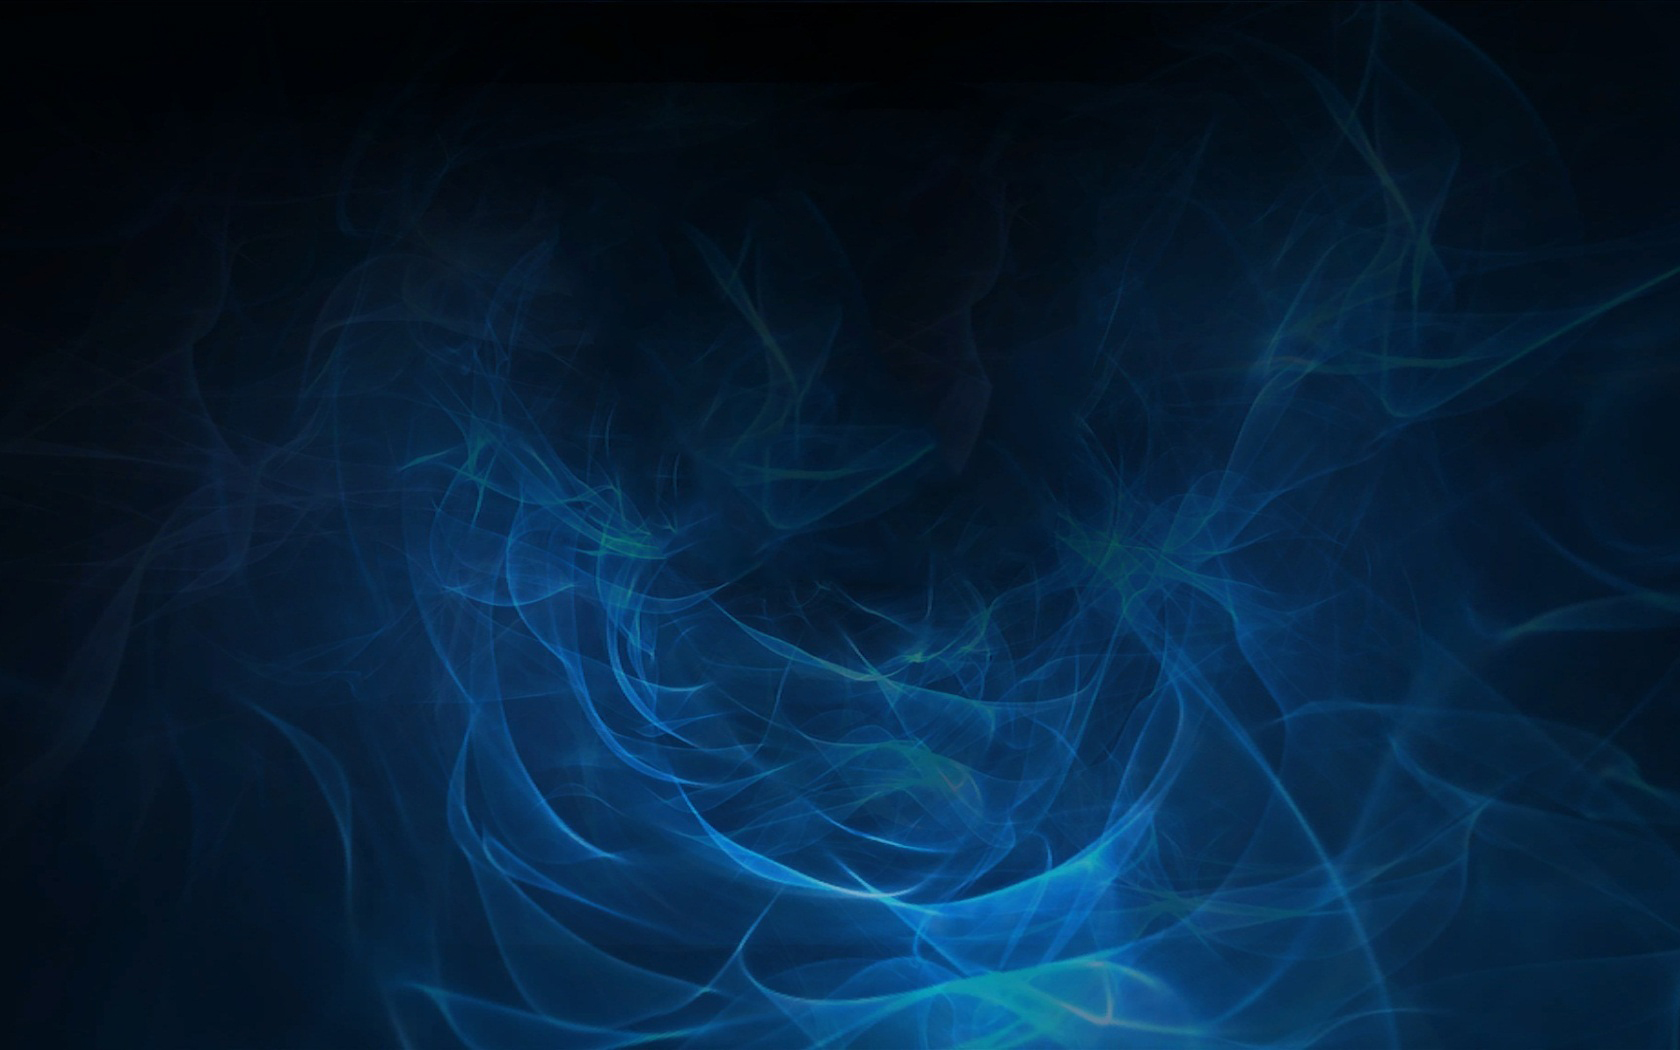
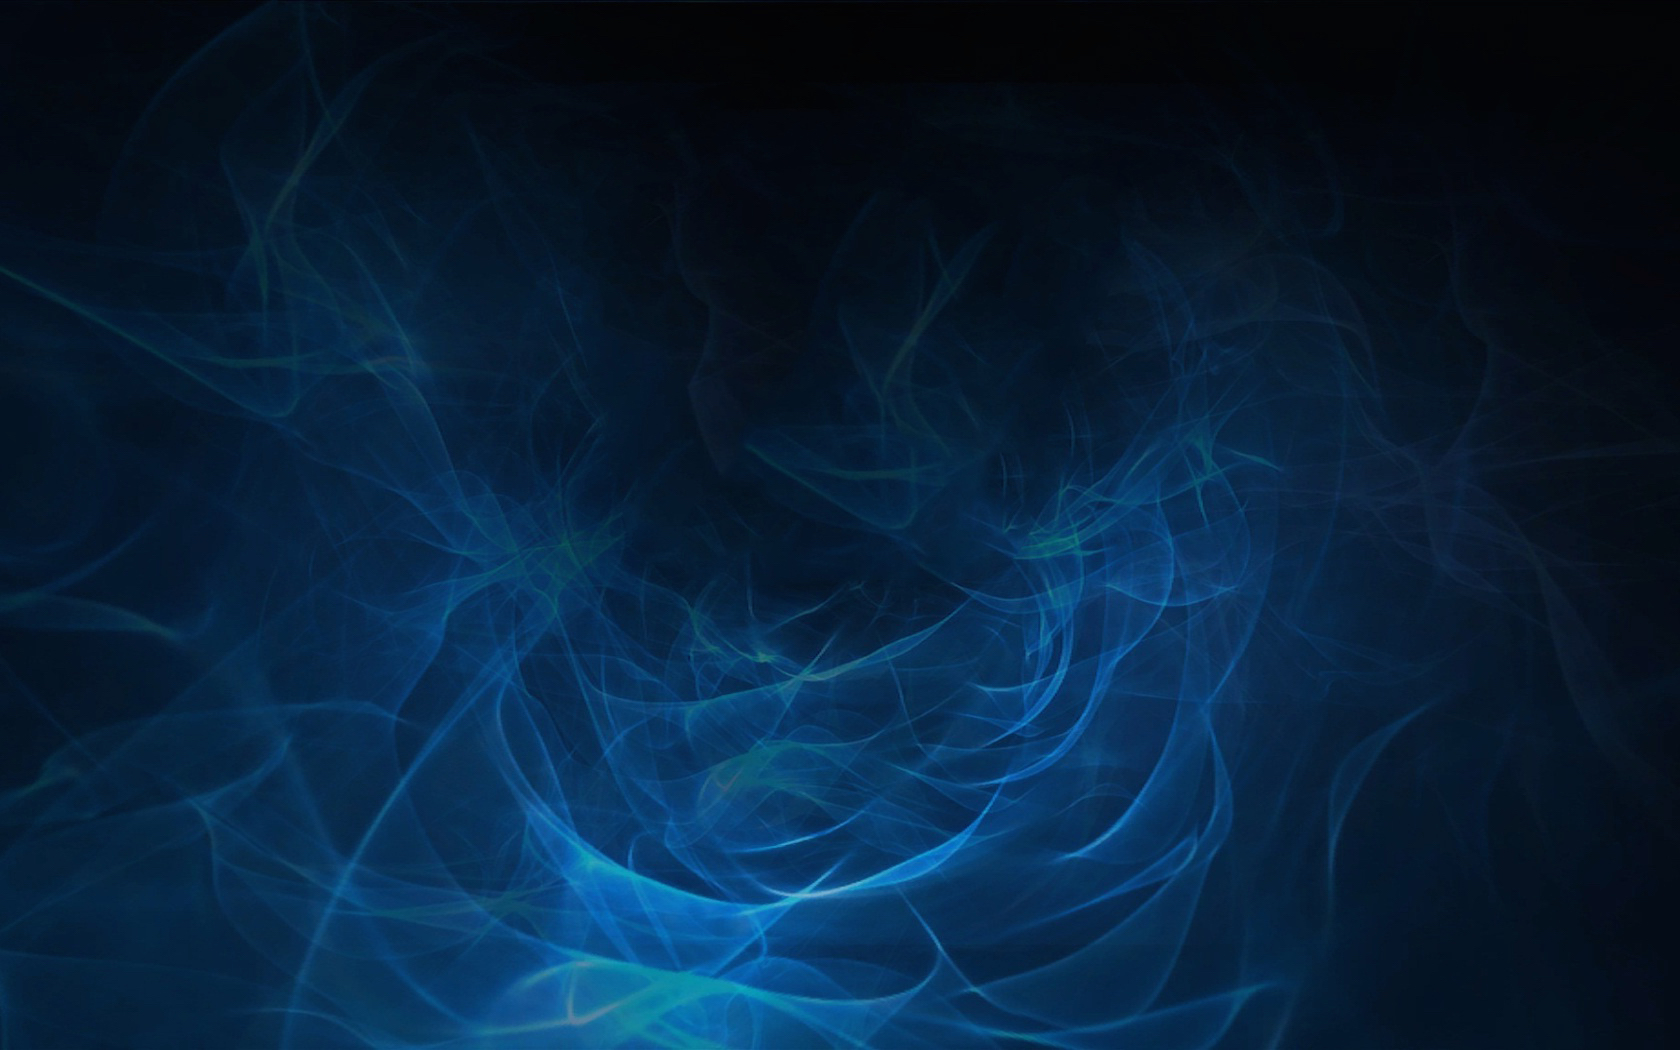
styling

diff --git a/app/assets/javascripts/bundle.js b/app/assets/javascripts/bundle.js
@@ -58735,8 +58735,8 @@
 	  render: function () {
 	    var url = "http://cdn.dota2.com/apps/dota2/images/heroes/";
 	    var match = this.props.match;
-	    var radiant = this.orderPlayers(match.radiant);
-	    var dire = this.orderPlayers(match.dire);
+	    var radiant = this.orderPlayers(match.players.slice(0, 5));
+	    var dire = this.orderPlayers(match.players.slice(5, 10));
 	    var heroes = this.heroes();
 
 	    return React.createElement(
@@ -59802,8 +59802,8 @@
 	    var match = this.props.match;
 
 	    if (match) {
-	      var radiant = this.orderPlayers(match.radiant);
-	      var dire = this.orderPlayers(match.dire);
+	      var radiant = this.orderPlayers(match.players.slice(0, 5));
+	      var dire = this.orderPlayers(match.players.slice(5, 10));
 	      var heroes = this.heroes();
 
 	      return React.createElement(
@@ -60265,7 +60265,7 @@
 	  getHeroPlayer: function () {
 	    if (this.props.match) {
 	      var id = this.props.filters.heroes[this.props.filters.heroes.length - 1];
-	      var players = this.props.match.radiant.concat(this.props.match.dire);
+	      var players = this.props.match.players;
 
 	      for (var i = 0; i < players.length; i++) {
 	        if (players[i].hero_id == id) {
@@ -60340,7 +60340,7 @@
 	        { className: 'selected-hero-stats' },
 	        React.createElement(
 	          Col,
-	          { md: 12 },
+	          { md: 12, id: 'initial-games-played-chart' },
 	          React.createElement(
 	            'h2',
 	            null,
@@ -60355,7 +60355,7 @@
 	        { className: 'selected-hero-stats' },
 	        React.createElement(
 	          Col,
-	          { md: 12 },
+	          { md: 12, id: 'initial-win-rates-chart' },
 	          React.createElement(
 	            'h2',
 	            null,

diff --git a/app/assets/stylesheets/hero_stats.scss b/app/assets/stylesheets/hero_stats.scss
@@ -1,16 +1,22 @@
 .win-loss-bar {
-  transform: translateY(-23px);
+  transform: translateY(-4px);
 }
 
 .bar-text {
   font-size: 10px;
-  transform: translate(45px,-74px);
+  transform: translate(45px,-53px);
 }
 
 .other-hero-stats {
   padding-top: 20px;
-  height: 365px;
+  height: 378px;
   overflow: hidden;
+
+  border-top: 1px solid white;
+  border-bottom: 1px solid white;
+
+  background: url("redtrees.jpg") no-repeat center fixed;
+  background-size: cover;
 }
 
 .other-hero-stats:hover {
@@ -19,6 +25,8 @@
 }
 
 .other-hero-stats img {
+  transform: translateY(18px);
+
   border-top: 1px solid white;
   border-left: 1px solid white;
   border-right: 1px solid black;
@@ -26,11 +34,39 @@
 }
 
 #initial-stats {
-  height: 470px;
+  height: 472px;
+
+  border-top: 1px solid white;
+  border-bottom: 1px solid white;
+}
+
+#initial-games-played-chart {
+  padding-left: 5px;
+  padding-right: 5px;
+}
+
+#initial-win-rates-chart {
+  padding-left: 5px;
+  padding-right: 5px;
+  margin-top: -1px;
 }
 
 .other-hero-stats li {
+  // background: #303030;
   height: 26px;
+  border-top: 1px solid #606060;
+  border-bottom: 1px solid #606060;
+  transform: translateY(-19px);
+
+  -webkit-transition: all .2s ease-out;
+     -moz-transition: all .2s ease-out;
+      -ms-transition: all .2s ease-out;
+       -o-transition: all .2s ease-out;
+          transition: all .2s ease-out;
+}
+
+.other-hero-stats li:hover {
+  background: #606060;
 }
 
 .hero-name {
@@ -41,6 +77,7 @@
 
 .selected-hero-column {
   padding: 5px;
+  padding-bottom: 0px;
   margin-left: 1px;
 }
 

diff --git a/app/assets/stylesheets/matches.scss b/app/assets/stylesheets/matches.scss
@@ -91,25 +91,30 @@ ul.dropdown-menu li {
   padding-left: 15px;
   padding-right: 15px;
   height: 87vh;
-  overflow: hidden;
+
+  border-top: 1px solid white;
+  border-bottom: 2px solid white;
+
+  overflow-x: hidden;
+  overflow-y: scroll;
+
+  background: url("redtrees.jpg") no-repeat center fixed;
+  background-size: cover;
 }
 
 .match-row {
-  -webkit-transition: all .2s ease-out;
-     -moz-transition: all .2s ease-out;
-      -ms-transition: all .2s ease-out;
-       -o-transition: all .2s ease-out;
-          transition: all .2s ease-out;
+  outline: 1px solid #404040;
+  // background: #303030;
+  -webkit-transition: all .3s ease-out;
+     -moz-transition: all .3s ease-out;
+      -ms-transition: all .3s ease-out;
+       -o-transition: all .3s ease-out;
+          transition: all .3s ease-out;
 }
 
 .match-row:hover {
   background: #606060;
-  transform: translate(-3px,-3px);
-}
-
-.match-list:hover {
-  overflow-x: hidden;
-  overflow-y: scroll;
+  transform: translate(-5px,-5px);
 }
 
 .selected-heroes li {

diff --git a/app/assets/stylesheets/nav.scss b/app/assets/stylesheets/nav.scss
@@ -1,7 +1,9 @@
 nav {
-  background-color: #202020;;
+  // background-color: #101010;
+  background: url("dota2.jpg") no-repeat center fixed;
+  background-size: cover;
   height: 52px;
-  // margin-bottom: 20px;
+  border-bottom: 1px solid #FF1177;
 }
 nav ul {
   display: inline;
@@ -40,11 +42,11 @@ nav img {
   nav a {
     padding: 15px 20px;
     color: #fff;
-    background-color: #202020;
+    background-color: #303030;
   }
   nav a:hover {
     color: black;
-    background-color: white;
+    background-color: #FF1177;
     text-decoration: none;
   }
   nav span {
@@ -53,14 +55,9 @@ nav img {
 }
 
 .links li {
-  border-left: 1px solid white;
-  border-right: 1px solid white;
-}
-
-.links li:nth-child(1) {
-  border-left: 2px solid white;
+  border-left: 1px solid #FF1177;
 }
 
 .links li:nth-child(4) {
-  border-right: 2px solid white;
+  border-right: 1px solid #FF1177;
 }

diff --git a/frontend/components/heroes/initial_stats.jsx b/frontend/components/heroes/initial_stats.jsx
@@ -30,14 +30,14 @@ var InitialStats = React.createClass({
     return (
       <Row>
         <Row className="selected-hero-stats">
-          <Col md={12}>
+          <Col md={12} id="initial-games-played-chart">
             <h2>Games played:</h2>
             <GamesWithOtherHeroes heroes={this.state.gamesPlayed.slice()} barWidth={100} maxWidth={350} initial={true}/>
           </Col>
         </Row><br/>
 
         <Row className="selected-hero-stats">
-          <Col md={12}>
+          <Col md={12} id="initial-win-rates-chart">
             <h2>Win rates:</h2>
             <WinratesWithOtherHeroes heroes={this.state.winrates.slice()} barWidth={100} maxWidth={350} initial={true}/>
           </Col>

diff --git a/app/assets/stylesheets/open_match.scss b/app/assets/stylesheets/open_match.scss
@@ -1,13 +1,10 @@
 .match-open {
+  // background: #303030;
   -webkit-transition: all .2s ease-out;
      -moz-transition: all .2s ease-out;
       -ms-transition: all .2s ease-out;
        -o-transition: all .2s ease-out;
           transition: all .2s ease-out;
-}
-
-.match-open:hover {
-  background: #606060;
 }
 
 .match-open span {
@@ -16,6 +13,13 @@
 
 .match-open h3 {
   text-align: center;
+}
+
+.match-open img {
+  border-top: 1px solid black;
+  border-left: 1px solid black;
+  border-right: 1px solid #808080;
+  border-bottom: 1px solid #808080;
 }
 
 .radiant-portraits div {

diff --git a/app/assets/stylesheets/application.css b/app/assets/stylesheets/application.css
@@ -24,16 +24,17 @@
   font-family: "Alegreya Sans";
   font-weight: 300;
   background-color: #303030;
-  /*background: url("redtrees.jpg") no-repeat center fixed;
-  background-size: cover;*/
+  /*background: url("redtrees.jpg") no-repeat center fixed;*/
+  /*background-size: cover;*/
   height: 100vh;
   min-height: 100vh;
   max-height: 100vh;
 }
 
 #app {
+  border-top: 2px solid #606060;
   padding-left: 0px;
-  padding-right: 0px;
+  padding-right: 5px;
 }
 
 .container {

diff --git a/frontend/components/matches/match.jsx b/frontend/components/matches/match.jsx
@@ -44,8 +44,8 @@ var Match = React.createClass({
   render: function () {
     var url = "http://cdn.dota2.com/apps/dota2/images/heroes/";
     var match = this.props.match;
-    var radiant = this.orderPlayers(match.radiant);
-    var dire = this.orderPlayers(match.dire);
+    var radiant = this.orderPlayers(match.players.slice(0,5));
+    var dire = this.orderPlayers(match.players.slice(5,10));
     var heroes = this.heroes();
 
     return (

diff --git a/frontend/components/heroes/selected_hero.jsx b/frontend/components/heroes/selected_hero.jsx
@@ -7,7 +7,7 @@ var SelectedHero = React.createClass({
   getHeroPlayer: function () {
     if (this.props.match) {
       var id = this.props.filters.heroes[this.props.filters.heroes.length - 1];
-      var players = this.props.match.radiant.concat(this.props.match.dire);
+      var players = this.props.match.players;
 
       for (var i = 0; i < players.length; i++) {
         if (players[i].hero_id == id) {

diff --git a/frontend/components/matches/open_match.jsx b/frontend/components/matches/open_match.jsx
@@ -54,8 +54,8 @@ var OpenMatch = React.createClass({
     var match = this.props.match;
 
     if (match) {
-      var radiant = this.orderPlayers(match.radiant);
-      var dire = this.orderPlayers(match.dire);
+      var radiant = this.orderPlayers(match.players.slice(0,5));
+      var dire = this.orderPlayers(match.players.slice(5,10));
       var heroes = this.heroes();
 
       return (

diff --git a/app/assets/stylesheets/heroes.scss b/app/assets/stylesheets/heroes.scss
@@ -119,7 +119,9 @@
 }
 
 .hero-picker {
-  background: #006dac;
-  height: calc(100vh - 52px);
+  // background: #006dac;
+  background: url("bluesmoke.jpg") no-repeat center fixed;
+  background-size: cover;
+  height: calc(100vh - 54px);
   border-right: 1px solid black;
 }

diff --git a/app/assets/stylesheets/scrollbar.scss b/app/assets/stylesheets/scrollbar.scss
@@ -4,7 +4,7 @@ div::-webkit-scrollbar {
 }
 
 div::-webkit-scrollbar-track {
-  background-color: white;
+  background-color: black;
   border-top: 1px solid #303030;
   border-left: 1px solid #303030;
   border-right: 1px solid black;
